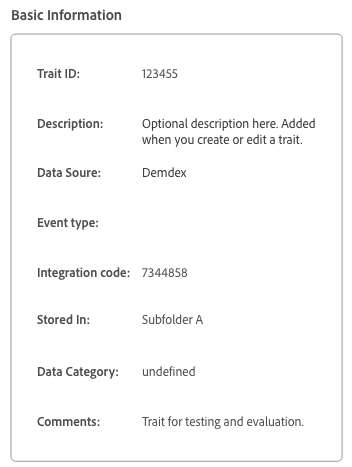
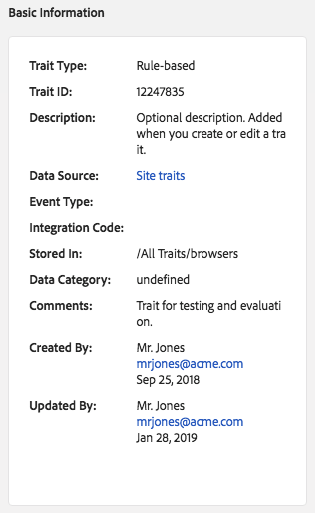
Replaced a screenshot and made another minor update
https://jira.corp.adobe.com/browse/AAM-45163

diff --git a/help/using/features/traits/trait-details-page.md b/help/using/features/traits/trait-details-page.md
@@ -13,7 +13,7 @@ The details page for an individual trait provides overview of information like t
 
 ## Basic Information {#section_4437F7E7D981446F8A7789141916528F}
 
-The [!UICONTROL Basic Information] section shows details about required and optional fields you completed when building the trait. This includes things like the trait ID, description, data source, and other metadata. These details vary depending on trait type (folder, onboarded, or rule-based).
+The [!UICONTROL Basic Information] section shows details about required and optional fields you completed when building the trait. This includes things like the trait type, trait ID, description, data source, and other metadata. These details vary depending on trait type (folder, onboarded, or rule-based).
 
 ![](assets/basicInfo.png)
 
